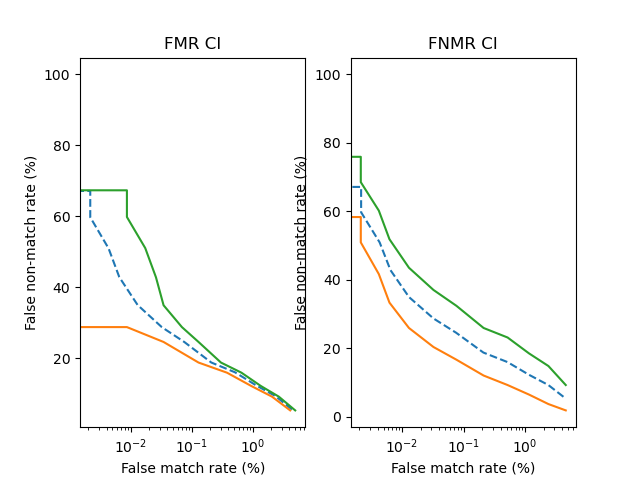
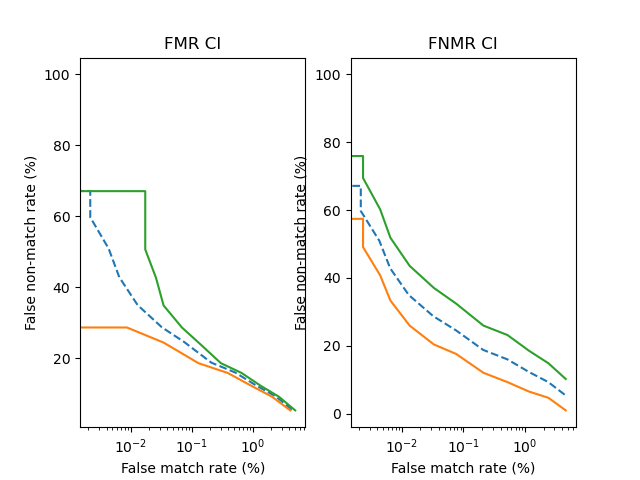
final submission

diff --git a/IrisRecognition.py b/IrisRecognition.py
@@ -4,36 +4,7 @@ from IrisMatching import *
 from ImageEnhancement import *
 from FeatureExtraction import *
 from PerformanceEvaluation import *
-from utils import *
-
-# import random
-
-
-# def test():
-#     subject = random.randint(0,108*3-1)
-#     print(subject)
-#     # train,test= readDataset(train=True,test=True)   
-#     # np.save("train",train)
-#     # np.save("test",test)
-    
-    
-#     train = np.load("train_denoise.npy")
-#     # train = np.load("train.npy")
-#     # test = np.load("test.npy")
-    
-#     # img = train[subject]
-#     img = train[282]
-#     # 81 55 10 94 71 55*3-1
-#     # print(img.shape)
-#     inner_circle, outer_circle = irisLocalization(img)
-#     img_norm = irisNormalization(img,inner_circle,outer_circle)
-#     img_enhance = imageEnhancement(img_norm)
-#     plt.imshow(img_enhance,cmap="gray")
-#     plt.show()
-    
-#     feature_vect = featureExtraction(img_enhance)
-#     # print((feature_vect))
-    
+from utils import *    
     
 
 
@@ -42,34 +13,48 @@ if __name__=="__main__":
     warnings.filterwarnings("ignore")
     
     # read images from dataset and store in npy files
-    # train,test= readDataset(train=True,test=True)   
-    # np.save("train",train)
-    # np.save("test",test)
+    train,test= readDataset(train=True,test=True)   
+    np.save("train",train)
+    np.save("test",test)
     
     # load raw image data from npy files
-    # train = np.load("train.npy")
-    # test = np.load("test.npy")
-    # X_train,y_train, X_test, y_test= \
-    #     irisMatching(train, test, n_components = 107,rotate=False, dimReduce = False)
+    train = np.load("train.npy")
+    test = np.load("test.npy")
+    X_train,y_train, X_test, y_test= \
+        irisMatching(train, test, n_components = 107,rotate=False, dimReduce = False)
+    performanceEvaluation(X_train, y_train, X_test, y_test)
     
     
+    
+    # ==================================================================================================
+    # The following code provides a shortcut by storing and reusing some intermediate image-preprocessing
+    # results and thus reduce the overall running time.
+    # Caveat: the scripts above must be executed at least once to have 
+    # -"train.npy", 
+    # -"test.npy",
+    # -"X_train.npy",
+    # -"X_test.npy"
+    # stored in the working directory.
+    # Also, be aware that the previous CRR.png, FMR_FNMR.png, "CRR Table.csv" and "ROC Table.csv" will
+    # be updated and overwritten for each operation.
+    # ==================================================================================================
     # load the preprocessed data directly from npy files
     # X_train = np.load("X_train.npy")
     # X_test = np.load("X_test.npy")
     
-    # 
+    # use rotation to obtain invariants, need to reload "train.npy" to rotate the train dataset
+    # train = np.load("train.npy")
     # X_train,y_train, X_test, y_test = irisMatching(train=train, test=None,rotate=True)
     # performanceEvaluation(X_train, y_train, X_test, y_test)
     # CRR result
     # 0.7592592592592593 0.7152777777777778 0.7013888888888888
 
     # use the stored npy data to save preprocessing time
-    X_train,y_train, X_test, y_test = irisMatching(train=None, test=None,rotate=False)
-    performanceEvaluation(X_train, y_train, X_test, y_test)
+    # X_train,y_train, X_test, y_test = irisMatching(train=None, test=None,rotate=False)
+    # performanceEvaluation(X_train, y_train, X_test, y_test)
     # CRR result
     # 0.8125 0.7708333333333334 0.7662037037037037
     # 0.7870370370370371 0.8009259259259259 0.8541666666666666
-    
     
     
     # use PCA to reduce the dimensionality

diff --git a/IrisMatching.py b/IrisMatching.py
@@ -149,19 +149,19 @@ def irisMatching(train, test, n_components = 107,rotate=False, dimReduce = False
     X_train = []
     X_test = []
     
-    # for i,img in enumerate(train):
-    #     X_train_vect = preprocess(img,rotate,offsets)
-    #     X_train.append(X_train_vect)
-    #     print(f"process train image {int((i)/3)}: {int((i))}th")
+    for i,img in enumerate(train):
+        X_train_vect = preprocess(img,rotate,offsets)
+        X_train.append(X_train_vect)
+        print(f"process train image {int((i)/3)}: {int((i))}th")
     
-    # np.save("X_train",X_train)
+    np.save("X_train",X_train)
     
-    # for i,img in enumerate(test):
-    #     X_test_vect = preprocess(img,rotate=False,offsets=0)
-    #     X_test.append(X_test_vect)
-    #     print(f"process test image {int((i)/4)}: {int((i))}th")
+    for i,img in enumerate(test):
+        X_test_vect = preprocess(img,rotate=False,offsets=0)
+        X_test.append(X_test_vect)
+        print(f"process test image {int((i)/4)}: {int((i))}th")
     
-    # np.save("X_test",X_test)
+    np.save("X_test",X_test)
     
     
     if rotate:        
